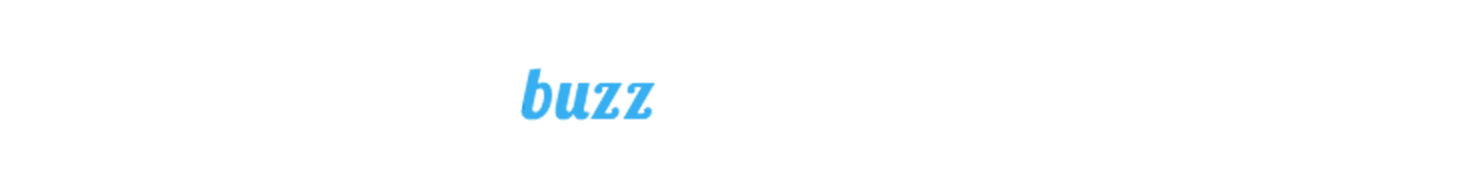
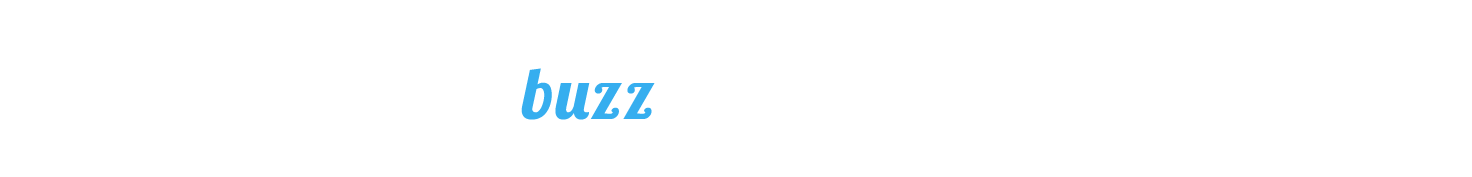
Dashboard: Blurry header section images
also remove old ones

Changed region(s): [[0.3438, 0.452, 0.4375, 0.678]]

diff --git a/framebuzz/static/framebuzz/tumblr/css/sass/screen.scss b/framebuzz/static/framebuzz/tumblr/css/sass/screen.scss
@@ -149,7 +149,7 @@ body {
 
         #logo-content {
             #fbz-logo {
-                background: url('../../img/v2/bkg-header@2x.png') repeat-x;
+                background: url('../../img/v2/header-bkg@2x.png') repeat-x;
                 background-size: 1px 76px;
                 height: auto;
 

diff --git a/framebuzz/static/framebuzz/tumblr/css/stylesheets/screen.css b/framebuzz/static/framebuzz/tumblr/css/stylesheets/screen.css
@@ -188,7 +188,7 @@ body {
 }
 /* line 151, ../sass/screen.scss */
 #base #header #logo-content #fbz-logo {
-  background: url("../../img/v2/bkg-header@2x.png") repeat-x;
+  background: url("../../img/v2/header-bkg@2x.png") repeat-x;
   background-size: 1px 76px;
   height: auto;
 }
